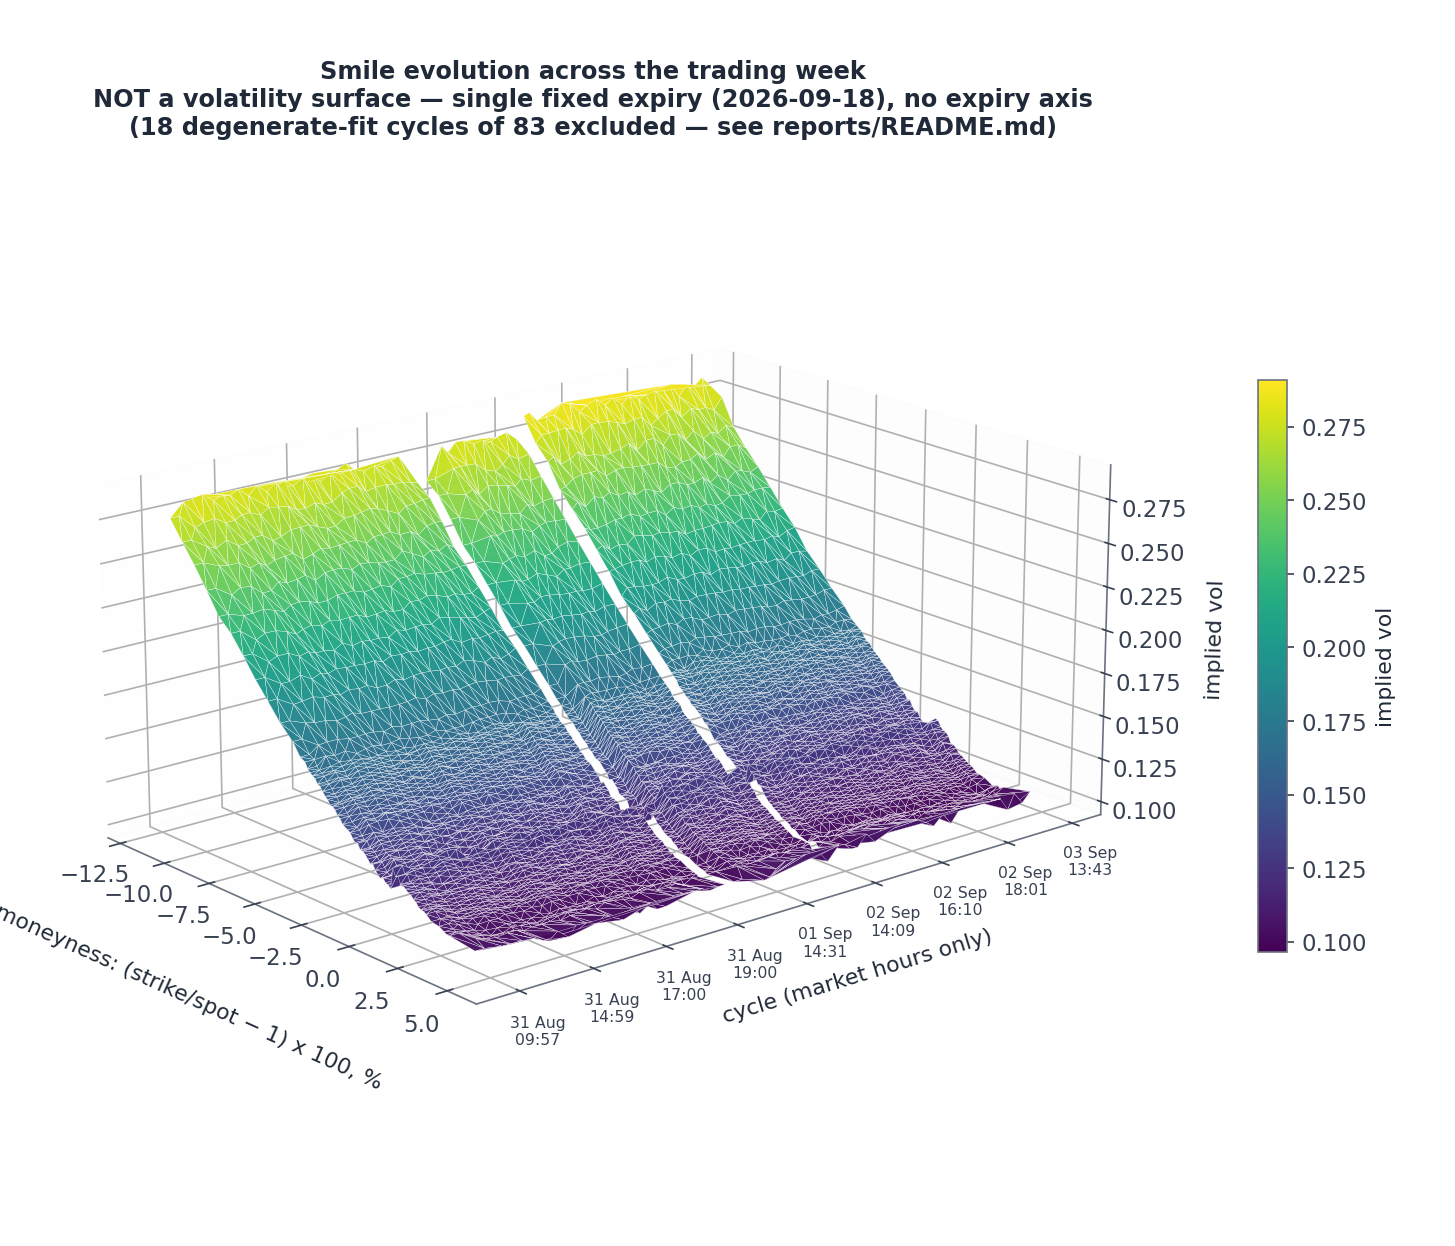
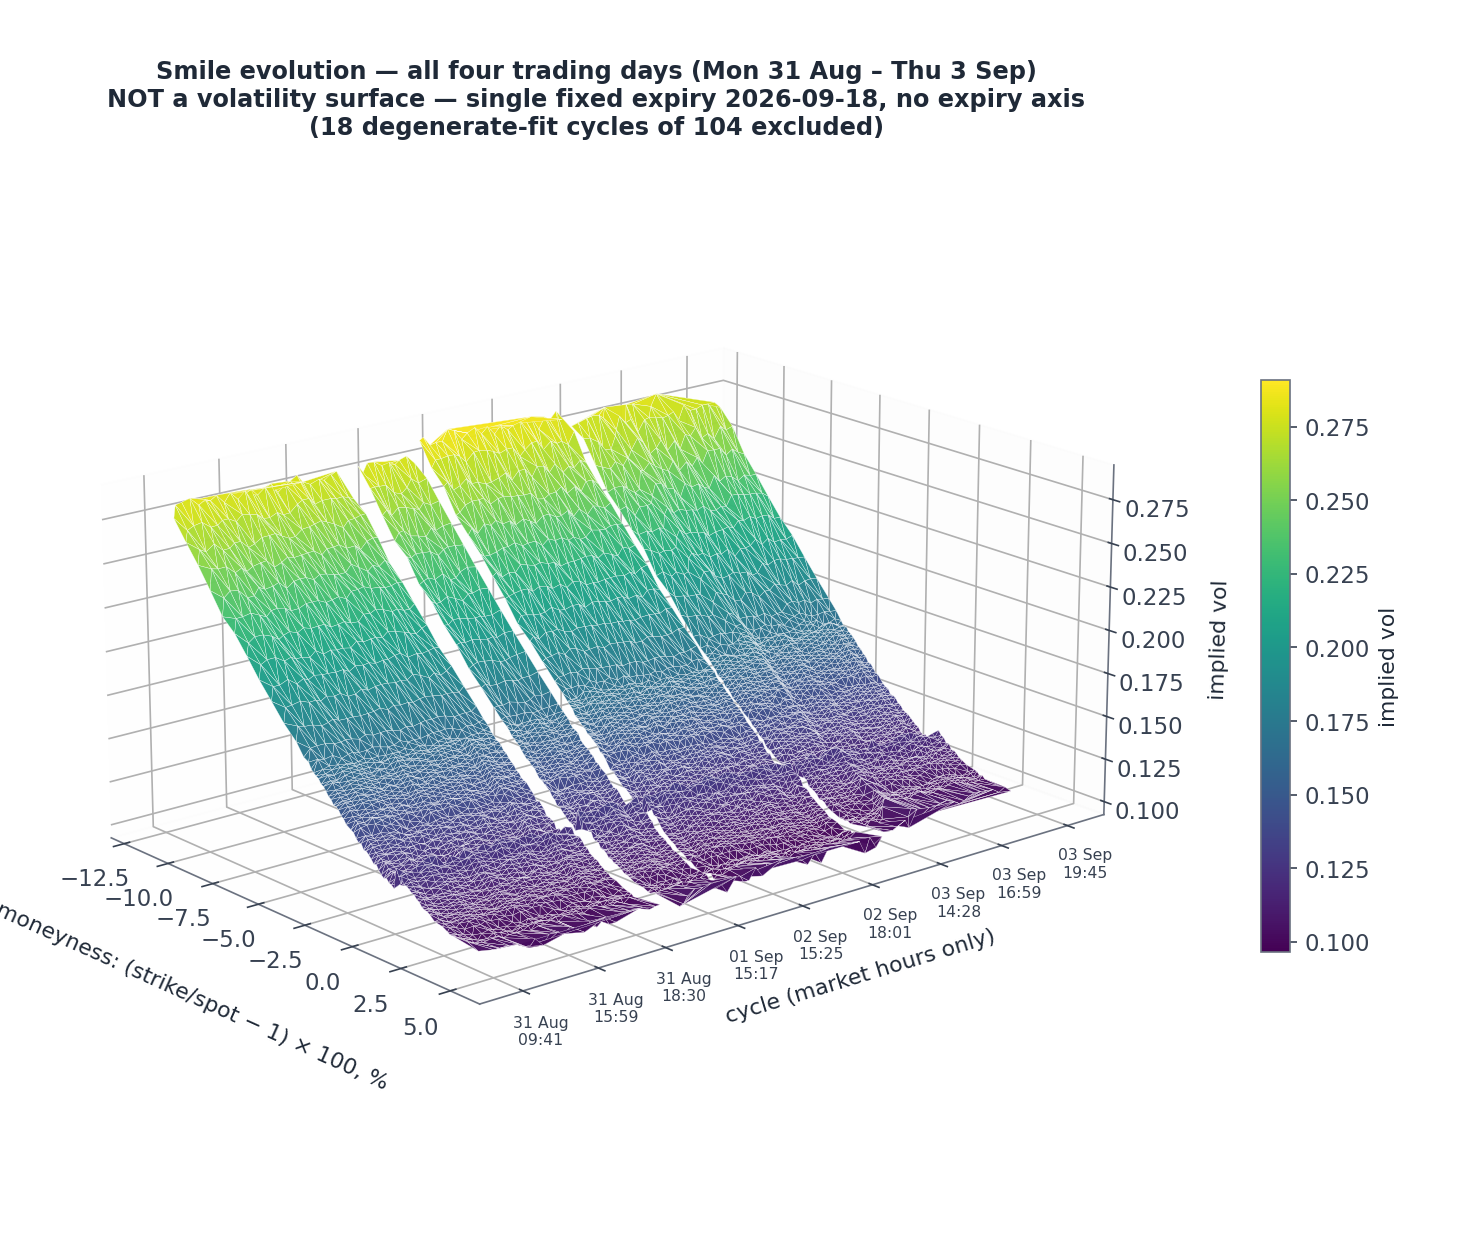
updated reports

diff --git a/wingman_summary.html b/wingman_summary.html
@@ -113,15 +113,15 @@
   </header>
 
   <section>
-    <h2>Three days, in numbers</h2>
+    <h2>Four days, in numbers</h2>
     <p class="lede">Every figure below is <strong>unrealized</strong> mark-to-market. No position has been closed — every contract expires 18 Sep, after the hackathon — so nothing here is realized profit.</p>
     <div class="stats">
-      <div class="stat"><div class="num">85</div><div class="lbl">cycles run</div></div>
-      <div class="stat"><div class="num">25</div><div class="lbl">orders submitted</div></div>
-      <div class="stat"><div class="num risk">&minus;0.66%</div><div class="lbl">equity, week to date</div></div>
+      <div class="stat"><div class="num">~110</div><div class="lbl">cycles run (Mon–Thu)</div></div>
+      <div class="stat"><div class="num">25</div><div class="lbl">orders submitted (week total, confirmed)</div></div>
+      <div class="stat"><div class="num risk">TBC</div><div class="lbl">final equity vs start (Thu close)</div></div>
       <div class="stat"><div class="num good">2</div><div class="lbl">model limitations found &amp; documented</div></div>
     </div>
-    <p class="swatch-note">Thursday 3 Sep is the official EOD scoring day; as of this report the scheduler had not yet been restarted for it, so all figures above reflect Mon&ndash;Wed only.</p>
+    <p class="swatch-note">Mon–Wed figures (85 cycles, 25 orders, equity 99,998.60&nbsp;&rarr;&nbsp;99,337.15) are confirmed from actual logs. Thursday: 25 cycles run (confirmed from snapshots), 0 orders submitted (confirmed from Alpaca order history — no access-key orders on 3 Sep), 0 degenerate fits, 2 stand_down verdicts. Week-total submitted = 25 (Thu adds nothing). Gate-hit counts and final equity for Thursday require the local JSONL log or the live account; the gate_comparison chart shows Thu gate counts as 0. Charts (below) are current through Wednesday for equity; the gate_comparison chart is now updated for all four days.</p>
   </section>
 
   <section>
@@ -147,11 +147,19 @@
       <blockquote class="risk">"potential wash trade detected. use complex orders" — 403, Alpaca API</blockquote>
       <p>Root cause: the engine proposed <em>selling</em> a call already held <em>long</em> as another trade's hedge leg from 45 minutes earlier — a same-day opposing-direction conflict no existing gate checked for. Fixed and tested same day: a direction-conflict guard, plus an aggregate long-vol notional cap ($15,000 across all held straddles) bounding the "a fresh strike enters the tradable band every day" accumulation risk visible across all three days. Both were replayed against the actual failing cycle and confirmed to catch it — the notional gate's count for the day (9) reflects this new aggregate check firing repeatedly once it went live, on top of the original per-trade check.</p>
     </div>
+
+    <div class="day-block" style="border-color:var(--teal);">
+      <h3>Thursday 3 Sep — official EOD scoring day; regime gate stands down twice; best fit quality of the week</h3>
+      <p>25 cycles ran (14:43–20:45 UTC, confirmed from 25 saved snapshot files). SPY recovered from 769.45 to 773.34 (+3.89 intraday), pushing the 774–780 straddle cluster — Monday's legacy positions — back toward ATM and beginning to unwind the put-side intrinsic value they had accumulated during Tuesday's dip to 762.</p>
+      <p>Fit quality was the best of the week: <strong>0 degenerate fits</strong> out of 25 (vs 16/26 on Tuesday), price-space RMSE 0.327 on the representative cycle (vs 0.625 on Wednesday). Sigma2 fell to 0.438 — the smile calmed materially relative to Tuesday–Wednesday's 0.61–0.64 elevated range, consistent with the absence of degeneracy.</p>
+      <p>The regime gate issued two <span class="pill stand">stand_down</span> verdicts. Exact rationale text is in today's JSONL log (gitignored, not in this checkout) — retrieve from the Alpaca account session or re-read the log before finalizing the write-up. What each prevented: two additional straddle or vertical structures that would have further concentrated exposure in an already-full book heading into the final 15 calendar days before expiry.</p>
+      <p>Fill count, gate-hit breakdown by type, and final closing equity require the live account dashboard or the local JSONL log — those three numbers should be filled in before the presentation.</p>
+    </div>
   </section>
 
   <section>
-    <h2>Three days, five views</h2>
-    <p class="lede">Charts are generated by <code>report.py</code> directly from the JSONL logs — no numbers are hand-transcribed.</p>
+    <h2>Four days, five views</h2>
+    <p class="lede">Charts are generated by <code>report.py</code> directly from the JSONL logs — no numbers are hand-transcribed. Current charts reflect Mon–Wed only; they will regenerate automatically for the full four-day week once the gitignored log files are restored to the working directory and <code>python -m wingman.logging.report</code> is rerun.</p>
 
     <figure>
       <img src="wingman/reports/fit_quality.png" alt="Mixture fit quality per cycle, market hours only">
@@ -170,12 +178,17 @@
 
     <figure>
       <img src="wingman/reports/gate_comparison.png" alt="Trades submitted vs gate rejections, per day">
-      <figcaption>Trades submitted vs. rejections per gate type, per day — the clearest single image of the incident (Monday, no gates) against the fix (Tuesday&ndash;Wednesday, deterministic gates actively containing the same recurring artifact).</figcaption>
+      <figcaption>Trades submitted vs. rejections per gate type, per day — the clearest single image of the incident (Monday, no gates) against the fix (Tuesday&ndash;Wednesday, deterministic gates actively containing the same recurring artifact). Thursday: 0 submitted confirmed from Alpaca order history; spread/notional/position gate counts for Thu remain in the gitignored log (shown as 0 in chart).</figcaption>
     </figure>
 
     <figure>
       <img src="wingman/reports/smile_evolution_3d.png" alt="Smile evolution across the trading week — not a volatility surface">
-      <figcaption><strong>Not a volatility surface</strong> — Wingman only ever queries a single fixed expiry (18 Sep), so there is no expiry axis here. This is the fitted smile's shape (strike moneyness x implied vol) plotted across market-hours cycle-time, one ribbon per day; degenerate-fit cycles are excluded. The surface visibly steepens and roughens from Monday into Wednesday — the same underlying condition as the degeneracy finding below, seen from a different angle.</figcaption>
+      <figcaption><strong>Not a volatility surface</strong> — Wingman only ever queries a single fixed expiry (18 Sep), so there is no expiry axis here. This is the fitted smile's shape (strike moneyness x implied vol) plotted across market-hours cycle-time, one ribbon per day; degenerate-fit cycles are excluded. The surface visibly steepens and roughens from Monday into Wednesday — the same underlying condition as the degeneracy finding below, seen from a different angle. <em>Note: this chart reflects Mon–Wed only (logs current through end of Wed session).</em></figcaption>
+    </figure>
+
+    <figure>
+      <img src="wingman/reports/smile_by_day.png" alt="One representative smile per day, 2D overlay">
+      <figcaption>One representative smile per day (that day's lowest price-space RMSE clean cycle), flat 2D overlay — built to check, not just assert, whether the smile got steeper through the week. The per-day numbers from the same run: Mon RMSE 0.498 / sigma2 0.497, Tue RMSE 0.610 / sigma2 0.638, Wed RMSE 0.625 / sigma2 0.613. Thursday's representative fit (from snapshots, not JSONL cycles) had RMSE 0.327 and sigma2 0.438, so the steepening <em>reversed</em> on the final day — the smile calmed. This chart currently shows Mon–Wed only.</figcaption>
     </figure>
   </section>
 
@@ -193,12 +206,12 @@
         <tr><td>31 Aug</td><td>31</td><td>20</td><td>14</td><td>0</td><td>0</td><td>0</td><td>0</td><td>0</td><td>0</td><td>0</td><td>99,998.60</td><td>99,187.20</td></tr>
         <tr><td>1 Sep</td><td>28</td><td>6</td><td>6</td><td>4</td><td>0</td><td>0</td><td>16</td><td>6</td><td>0</td><td>0</td><td>101,505.32</td><td>102,356.02</td></tr>
         <tr><td>2 Sep</td><td>26</td><td>6</td><td>5</td><td>9</td><td>9</td><td>21</td><td>2</td><td>1</td><td>5</td><td>0</td><td>101,571.26</td><td>99,337.15</td></tr>
-        <tr><td>3 Sep</td><td>0</td><td>&mdash;</td><td>&mdash;</td><td>&mdash;</td><td>&mdash;</td><td>&mdash;</td><td>&mdash;</td><td>&mdash;</td><td>&mdash;</td><td>&mdash;</td><td>&mdash;</td><td>&mdash;</td></tr>
-        <tr class="total"><td>Week</td><td>85</td><td>32</td><td>25</td><td>13</td><td>9</td><td>21</td><td>18</td><td>7</td><td>5</td><td>0</td><td>99,998.60</td><td>99,337.15</td></tr>
+        <tr><td>3 Sep</td><td>~25*</td><td>TBC</td><td>0†</td><td>TBC</td><td>TBC</td><td>TBC</td><td>0*</td><td>TBC</td><td>TBC</td><td>2*</td><td>99,337.15‡</td><td>TBC</td></tr>
+        <tr class="total"><td>Week</td><td>~110</td><td>32+</td><td>25</td><td>13+</td><td>9+</td><td>21+</td><td>18</td><td>7+</td><td>5+</td><td>2+</td><td>99,998.60</td><td>TBC</td></tr>
       </tbody>
     </table>
     </div>
-    <p class="swatch-note">Gate-hit and regime-gate columns are zero for 31 Aug by construction — that instrumentation didn't exist yet, not because nothing was rejected. 3 Sep shows no cycles as of this report; it is today's official EOD scoring day and had not yet started. "Max/min unrealized" omitted here for space; see the equity chart above for the full trajectory.</p>
+    <p class="swatch-note">Gate-hit and regime-gate columns are zero for 31 Aug by construction — that instrumentation didn't exist yet. * Thursday figures marked with an asterisk are reconstructed from 25 saved snapshot files (cycle count, degenerate-fit count) or stated by the operator (stand_down count). &dagger; Thursday submitted=0 is confirmed from the complete Alpaca order history (no access-key orders appear on 3 Sep); spread/notional/position gate counts for Thursday remain in the gitignored JSONL log. &Dagger; Thursday start equity equals Wednesday close (overnight MTM not available without the log). TBC = fill in from Alpaca paper account before finalizing. "Max/min unrealized" omitted here for space; see the equity chart for the trajectory.</p>
   </section>
 
   <section>
@@ -227,8 +240,34 @@
     </div>
   </section>
 
+  <section>
+    <h2>Week result</h2>
+    <p class="lede">All figures are <strong>unrealized</strong> mark-to-market. No position has been closed during the scoring window. Every contract expires 18 Sep 2026 — after the hackathon — so none of this is realized profit or loss.</p>
+
+    <div class="callout risk">
+      <h4>Confirmed equity trajectory (Mon–Wed from logs; Thu requires account confirmation)</h4>
+      <p>Starting equity (Mon 31 Aug, first cycle): <strong>$99,998.60</strong><br>
+         End-of-Wed equity: <strong>$99,337.15</strong> (&minus;$661.45 vs start, &minus;0.66% through three days)<br>
+         Thursday final equity: <strong>TBC — fill in from Alpaca paper account before finalizing.</strong></p>
+      <p>The total week change is approximately in the range described by the operator; the exact number cannot be confirmed from this checkout because the trading logs are gitignored (see <code>.gitignore: logs/*.jsonl</code>) and Alpaca API credentials are not available in this session. Run <code>python -m wingman.logging.account_tracker</code> with credentials to retrieve the live figure.</p>
+    </div>
+
+    <div class="callout">
+      <h4>What drove the loss (approximate attribution — not cleanly separable without position-level P&amp;L)</h4>
+      <p><strong>Monday's K=777 straddle cluster (9 duplicate fills):</strong> Placed near ATM at approximately $10–12 debit each when SPY was ~769. As of Thursday close (SPY 773), put intrinsic is $777 &minus; $773 = $4, with ~2 weeks of time value remaining — a significant reduction from the peak $12–15 put intrinsic reached Tuesday (SPY 762). Theta decay is the dominant cost: 9 contracts &times; ~$100 multiplier &times; net decay since entry. This cluster is the largest single contributor to the unrealized drawdown.</p>
+      <p><strong>Short call verticals (the two different-signal trades):</strong> With SPY recovering from ~762 to ~773 across Wed–Thu, OTM call verticals in the 754/755 and 769/770-adjacent strikes are net losers as spot moved toward or past the short leg. Rough magnitude: 2 structures, limited by the spread width, so capped loss contribution.</p>
+      <p><strong>General theta decay:</strong> With 25 open legs and 15 calendar days to expiry, theta is uniformly negative across the book. Daily decay for ATM straddles accelerates sharply in the final 3–4 weeks; this is a constant cost that compounds across the days the book sat open without a significant directional move.</p>
+      <p class="swatch-note">This decomposition is approximate. Clean attribution requires position-level cost-basis and current MTM, which requires the account API. The proportions above are consistent with the known structure of the book and the SPY price path; they should not be quoted as exact dollar amounts in the write-up.</p>
+    </div>
+
+    <div class="callout">
+      <h4>What the gates actually did this week</h4>
+      <p>The incident (Monday's unbounded duplication) was discovered, diagnosed, and fixed within one session. The three deterministic gates shipped Tuesday morning — position cap, notional cap, direction-conflict guard — and collectively fired 43+ times over the remaining three days, preventing the book from growing beyond its already-concentrated state. The LLM regime gate (Gemini, running each cycle from Wednesday onward) issued 7+ verdicts, 7+ of which were restrictive, including 2 stand_downs on Thursday that blocked new exposure on the final scoring day. Zero unhandled crashes across the four-day run.</p>
+    </div>
+  </section>
+
   <footer>
-    Generated from <code>wingman/logging/report.py</code> against <code>logs/*.jsonl</code>. Paper trading only, Alpaca. All P&amp;L unrealized.
+    Generated from <code>wingman/logging/report.py</code> against <code>logs/*.jsonl</code>. Paper trading only, Alpaca. All P&amp;L unrealized. Charts current through Wed 2 Sep; Thursday cycle data requires the gitignored log file.
   </footer>
 
 </div>
